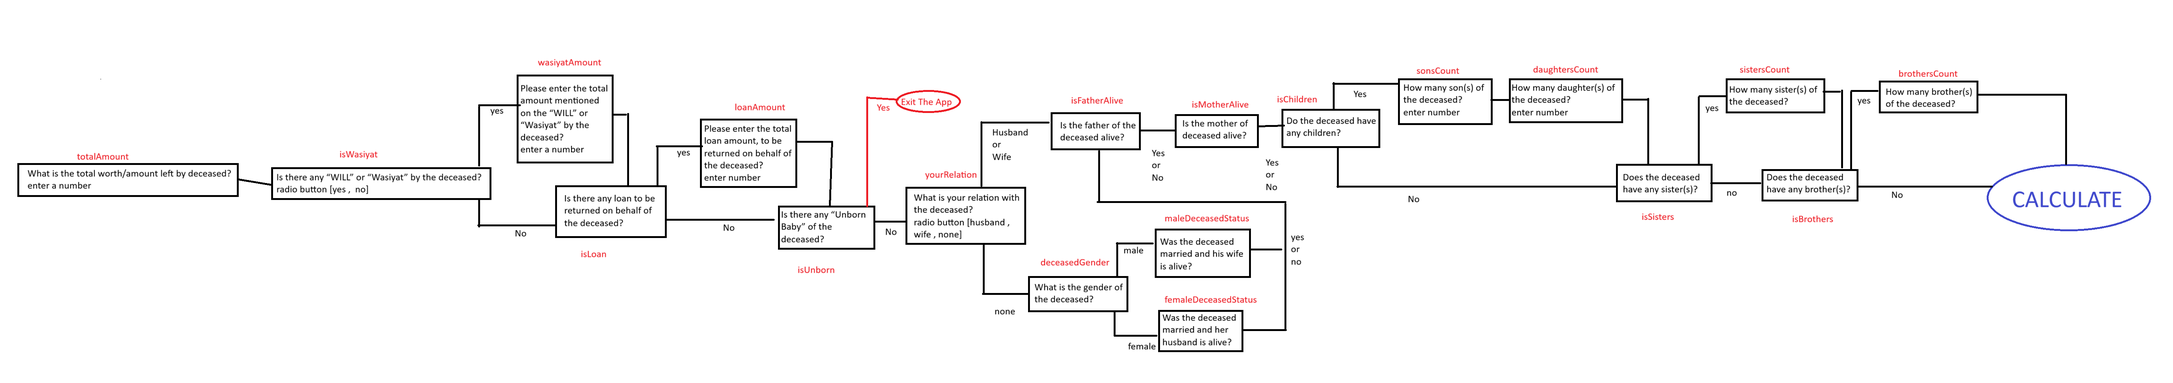
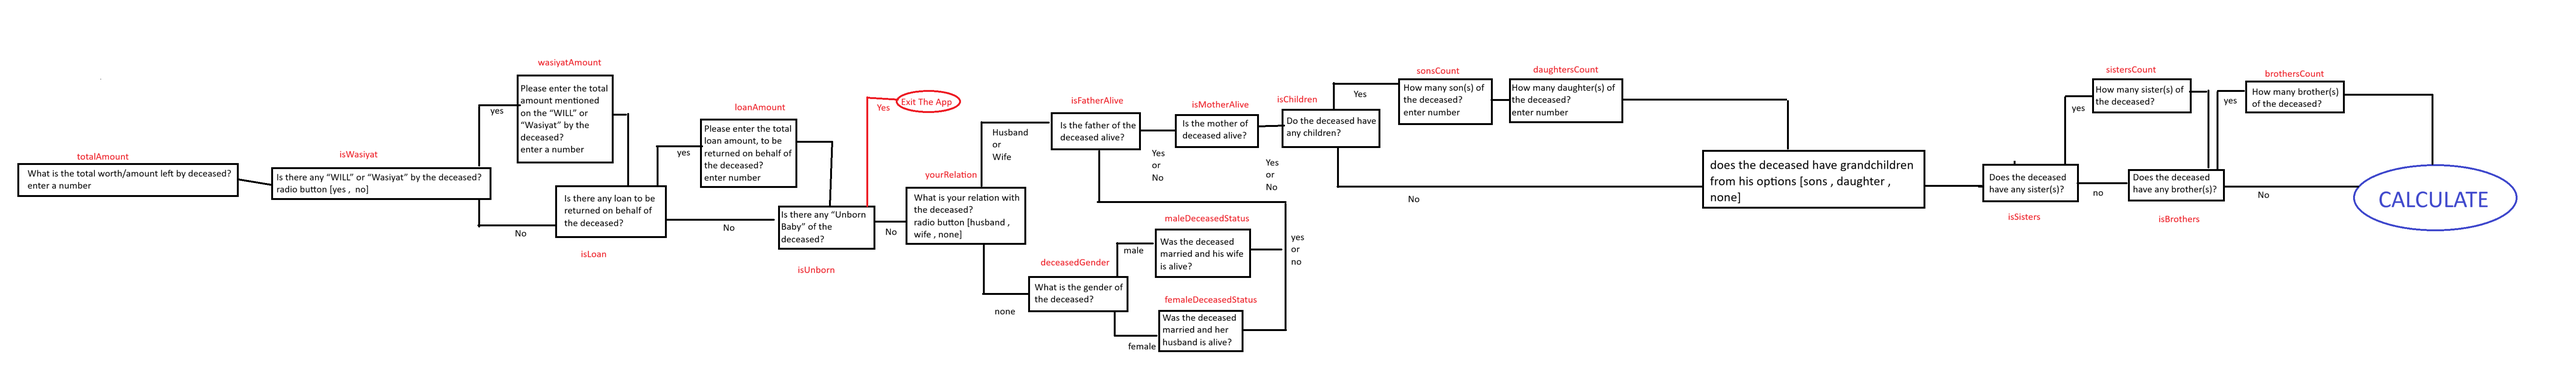
feat(inheritance): add grandchildren info support
- Introduce GrandChildrenInfoModel and update state/cubit to include grandchildren data
- Add GrandChildrenInfoWidget placeholder and correct 'daughersCount' typo across UI flow

diff --git a/lib/features/inheritance/cubits/inheritance/inheritance_state.dart b/lib/features/inheritance/cubits/inheritance/inheritance_state.dart
@@ -17,6 +17,7 @@ class InheritanceState {
   bool? isChildren;
   int? sonsCount;
   int? daughtersCount;
+  GrandChildrenInfoModel? grandChildren;
   bool? isSisters;
   int? sistersCount;
   bool? isBrothers;
@@ -38,6 +39,7 @@ class InheritanceState {
     this.isChildren,
     this.sonsCount,
     this.daughtersCount,
+    this.grandChildren,
     this.isSisters,
     this.sistersCount,
     this.isBrothers,
@@ -60,7 +62,8 @@ class InheritanceState {
     bool? isMotherAlive,
     bool? isChildren,
     int? sonsCount,
-    int? daughersCount,
+    int? daughtersCount,
+    GrandChildrenInfoModel? grandChildren,
     bool? isSisters,
     int? sistersCount,
     bool? isBrothers,
@@ -82,7 +85,8 @@ class InheritanceState {
       isMotherAlive: isMotherAlive ?? this.isMotherAlive,
       isChildren: isChildren ?? this.isChildren,
       sonsCount: sonsCount ?? this.sonsCount,
-      daughtersCount: daughersCount ?? daughtersCount,
+      daughtersCount: daughtersCount ?? this.daughtersCount,
+      grandChildren: grandChildren ?? this.grandChildren,
       isSisters: isSisters ?? this.isSisters,
       sistersCount: sistersCount ?? this.sistersCount,
       isBrothers: isBrothers ?? this.isBrothers,
@@ -91,33 +95,6 @@ class InheritanceState {
   }
 
   Map<String, dynamic> toRequestBody() {
-    // return {
-    //   "totalAmount": 150000.0,
-    //   "isWasiyat": false,
-    //   "wasiyatAmount": 0.0,
-    //   "isLoan": false,
-    //   "loanAmount": 0.0,
-    //   "isUnborn": false,
-
-    //   // Relation enum → allowed values: "husband", "wife", "none"
-    //   "yourRelation": null,
-
-    //   // GenderEnum enum → allowed values: "male", "female"
-    //   "deceasedGender": "female",
-
-    //   "maleDeceasedStatus": false,
-    //   "femaleDeceasedStatus": false,
-    //   "isFatherAlive": false,
-    //   "isMotherAlive": false,
-    //   "isChildren": true,
-    //   "sonsCount": 2,
-    //   "daughtersCount": 2,
-    //   "isSisters": true,
-    //   "sistersCount": 1,
-    //   "isBrothers": true,
-    //   "brothersCount": 2,
-    // };
-
     return {
       'totalAmount': totalAmount,
       'isWasiyat': isWasiyat,
@@ -134,6 +111,7 @@ class InheritanceState {
       'isChildren': isChildren,
       'sonsCount': sonsCount,
       'daughtersCount': daughtersCount,
+      'grandchildrenInfo': grandChildren?.toRequestBody() ?? [],
       'isSisters': isSisters,
       'sistersCount': sistersCount,
       'isBrothers': isBrothers,

diff --git a/lib/features/inheritance/models/grand_child_info_model.dart b/lib/features/inheritance/models/grand_child_info_model.dart
@@ -1,0 +1,49 @@
+// ignore_for_file: public_member_api_docs, sort_constructors_first
+import 'package:inheritance/features/inheritance/enums/gender_enum.dart';
+
+class GrandChildrenInfoModel {
+  bool submitted;
+  List<GrandChildInfoModel> grandChildren;
+  GrandChildrenInfoModel({required this.submitted, required this.grandChildren});
+
+  Map<String, dynamic> toJson() {
+    return <String, dynamic>{
+      'submitted': submitted,
+      'grandChildren': grandChildren.map((x) => x.toJson()).toList(),
+    };
+  }
+
+  List<Map<String, dynamic>> toRequestBody() {
+    return grandChildren.map((x) => x.toJson()).toList();
+  }
+
+  @override
+  String toString() =>
+      'GrandChildrenInfoModel(submitted: $submitted, grandChildren: $grandChildren)';
+}
+
+class GrandChildInfoModel {
+  GenderEnum? gender;
+  String? status;
+  int? grandChildrenMalesCount;
+  int? grandChildrenFemalesCount;
+
+  GrandChildInfoModel({
+    this.gender,
+    this.status,
+    this.grandChildrenMalesCount,
+    this.grandChildrenFemalesCount,
+  });
+
+  @override
+  String toString() {
+    return 'GrandChildInfoModel(gender: $gender, status: $status, grandChildrenMalesCount: $grandChildrenMalesCount, grandChildrenFemalesCount: $grandChildrenFemalesCount)';
+  }
+
+  Map<String, dynamic> toJson() => {
+    'gender': gender,
+    'status': status,
+    'grandChildrenMalesCount': grandChildrenMalesCount,
+    'grandChildrenFemalesCount': grandChildrenFemalesCount,
+  };
+}

diff --git a/lib/features/inheritance/presentation/screens/Inheritance_screen.dart b/lib/features/inheritance/presentation/screens/Inheritance_screen.dart
@@ -7,6 +7,7 @@ import 'package:inheritance/features/inheritance/presentation/widgets/brothers_c
 import 'package:inheritance/features/inheritance/presentation/widgets/daughters_count_widget.dart';
 import 'package:inheritance/features/inheritance/presentation/widgets/deceassed_gender_widget.dart';
 import 'package:inheritance/features/inheritance/presentation/widgets/female_deceased_status.dart';
+import 'package:inheritance/features/inheritance/presentation/widgets/grand_children_info_widget.dart';
 import 'package:inheritance/features/inheritance/presentation/widgets/is_brothers.dart';
 import 'package:inheritance/features/inheritance/presentation/widgets/is_children.dart';
 import 'package:inheritance/features/inheritance/presentation/widgets/is_father_alive.dart';
@@ -105,6 +106,7 @@ class InheritanceContent extends StatelessWidget {
         IsSistersWidget(),
         SonsCountWidget(),
         DaughtersCountWidget(),
+        GrandChildrenInfoWidget(),
         SistersCountWidget(),
         IsBrothersWidget(),
         BrothersCountWidget(),

diff --git a/lib/features/inheritance/presentation/widgets/daughters_count_widget.dart b/lib/features/inheritance/presentation/widgets/daughters_count_widget.dart
@@ -27,11 +27,11 @@ class _DaughtersCountWidgetState extends State<DaughtersCountWidget> {
   Widget build(BuildContext context) {
     return BlocBuilder<InheritanceCubit, InheritanceState>(
       buildWhen: (previous, current) {
-        return previous.currentStep == InheritanceEnum.daughersCount ||
-            current.currentStep == InheritanceEnum.daughersCount;
+        return previous.currentStep == InheritanceEnum.daughtersCount ||
+            current.currentStep == InheritanceEnum.daughtersCount;
       },
       builder: (context, state) {
-        return controller.state.currentStep == InheritanceEnum.daughersCount
+        return controller.state.currentStep == InheritanceEnum.daughtersCount
             ? DefaultAnimation(
               child: InheritanceTextInputWidget(
                 image: AssetsData.daughter,

diff --git a/lib/features/inheritance/presentation/widgets/is_sisters.dart b/lib/features/inheritance/presentation/widgets/is_sisters.dart
@@ -49,7 +49,7 @@ class _IsSistersWidgetState extends State<IsSistersWidget> {
                 handleBack: () {
                   state.isSisters = null;
                   if (state.daughtersCount != null) {
-                    controller.changeStep(InheritanceEnum.daughersCount);
+                    controller.changeStep(InheritanceEnum.daughtersCount);
                   } else {
                     controller.changeStep(InheritanceEnum.isChildren);
                   }

diff --git a/lib/features/inheritance/cubits/inheritance/inheritance_cubit.dart b/lib/features/inheritance/cubits/inheritance/inheritance_cubit.dart
@@ -5,6 +5,7 @@ import 'package:inheritance/features/inheritance/cubits/result/result_cubit.dart
 import 'package:inheritance/features/inheritance/enums/gender_enum.dart';
 import 'package:inheritance/features/inheritance/enums/inheritance.dart';
 import 'package:inheritance/features/inheritance/enums/relations_enum.dart';
+import 'package:inheritance/features/inheritance/models/grand_child_info_model.dart';
 
 part 'inheritance_state.dart';
 

diff --git a/lib/features/inheritance/presentation/widgets/grand_children_info_widget.dart b/lib/features/inheritance/presentation/widgets/grand_children_info_widget.dart
@@ -1,0 +1,15 @@
+import 'package:flutter/widgets.dart';
+
+class GrandChildrenInfoWidget extends StatefulWidget {
+  const GrandChildrenInfoWidget({super.key});
+
+  @override
+  State<GrandChildrenInfoWidget> createState() => _GrandChildrenInfoWidgetState();
+}
+
+class _GrandChildrenInfoWidgetState extends State<GrandChildrenInfoWidget> {
+  @override
+  Widget build(BuildContext context) {
+    return const Placeholder();
+  }
+}

diff --git a/lib/features/inheritance/presentation/widgets/sons_count_widget.dart b/lib/features/inheritance/presentation/widgets/sons_count_widget.dart
@@ -41,7 +41,7 @@ class _SonsCountWidgetState extends State<SonsCountWidget> {
                     return;
                   }
                   state.sonsCount = int.parse(val);
-                  controller.changeStep(InheritanceEnum.daughersCount);
+                  controller.changeStep(InheritanceEnum.daughtersCount);
                 },
                 handleBack: () {
                   state.sonsCount = null;

diff --git a/lib/features/inheritance/presentation/widgets/appbar_title.dart b/lib/features/inheritance/presentation/widgets/appbar_title.dart
@@ -62,7 +62,7 @@ class _AppBarTitleState extends State<AppBarTitle> {
       case InheritanceEnum.sonsCount:
         title = "Sons count?";
         break;
-      case InheritanceEnum.daughersCount:
+      case InheritanceEnum.daughtersCount:
         title = "Daughters count?";
         break;
       case InheritanceEnum.sistersCount:

diff --git a/lib/features/inheritance/enums/inheritance.dart b/lib/features/inheritance/enums/inheritance.dart
@@ -13,7 +13,8 @@ enum InheritanceEnum {
   isMotherAlive,
   isChildren,
   sonsCount,
-  daughersCount,
+  daughtersCount,
+  grandChildrenInfo,
   isSisters,
   sistersCount,
   isBrothers,
